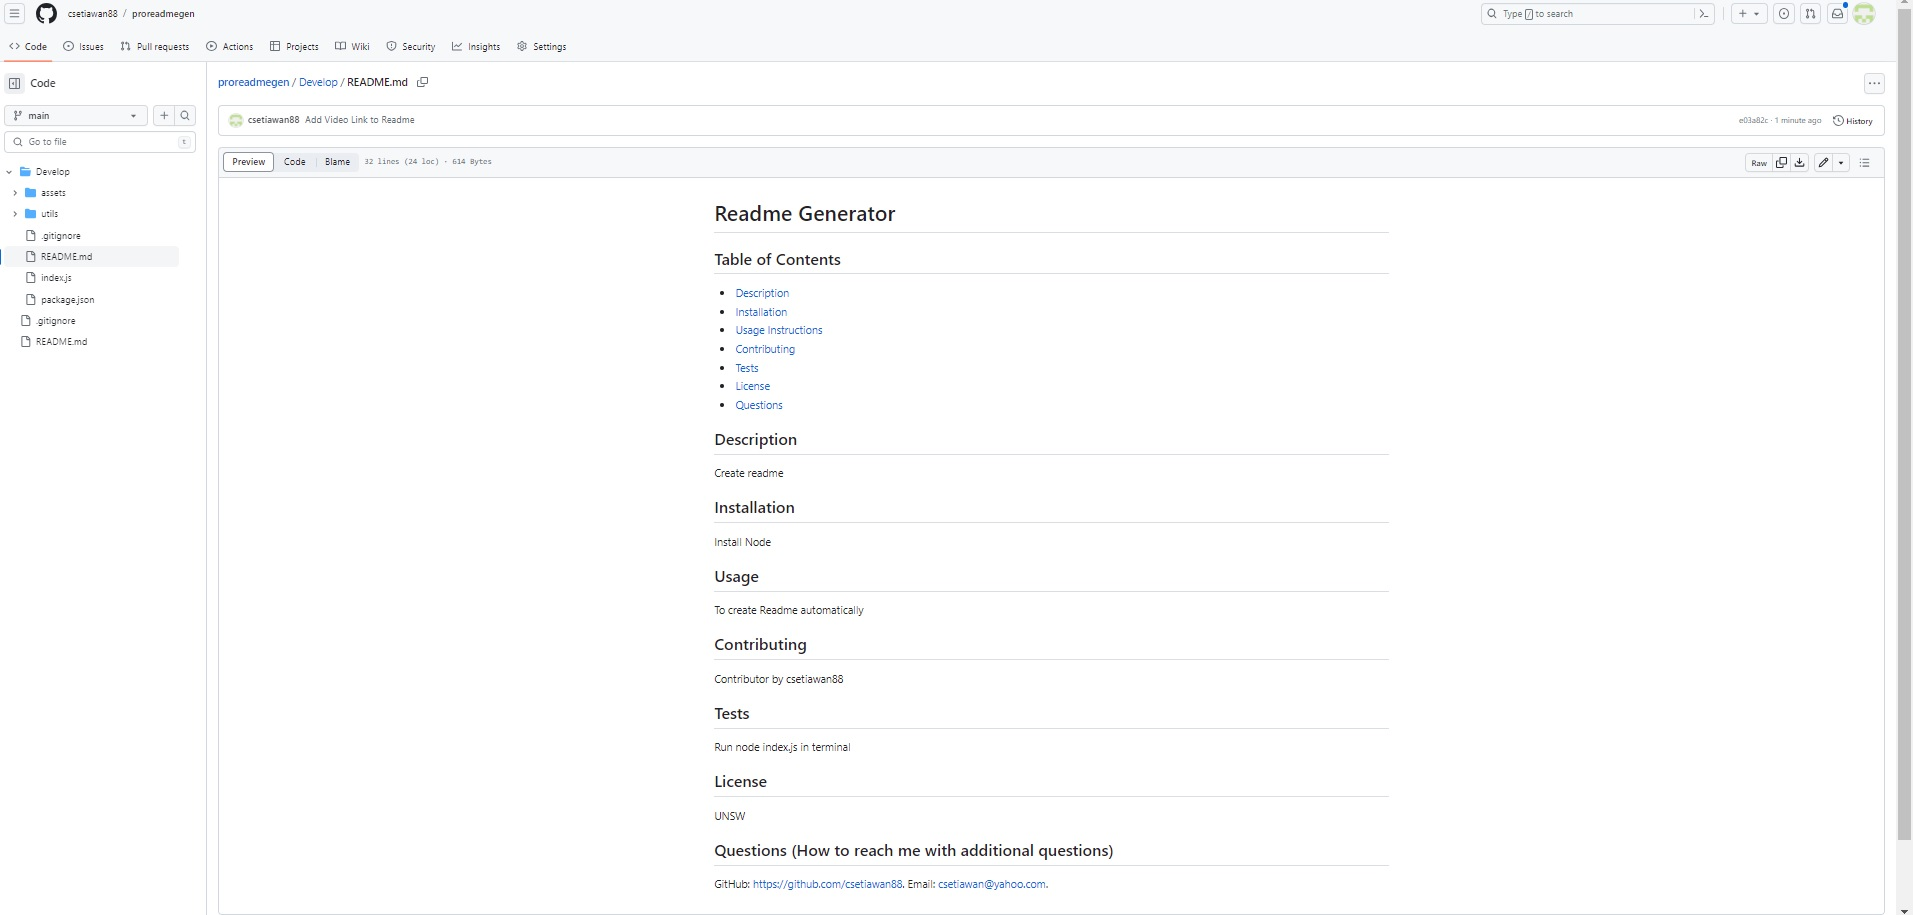
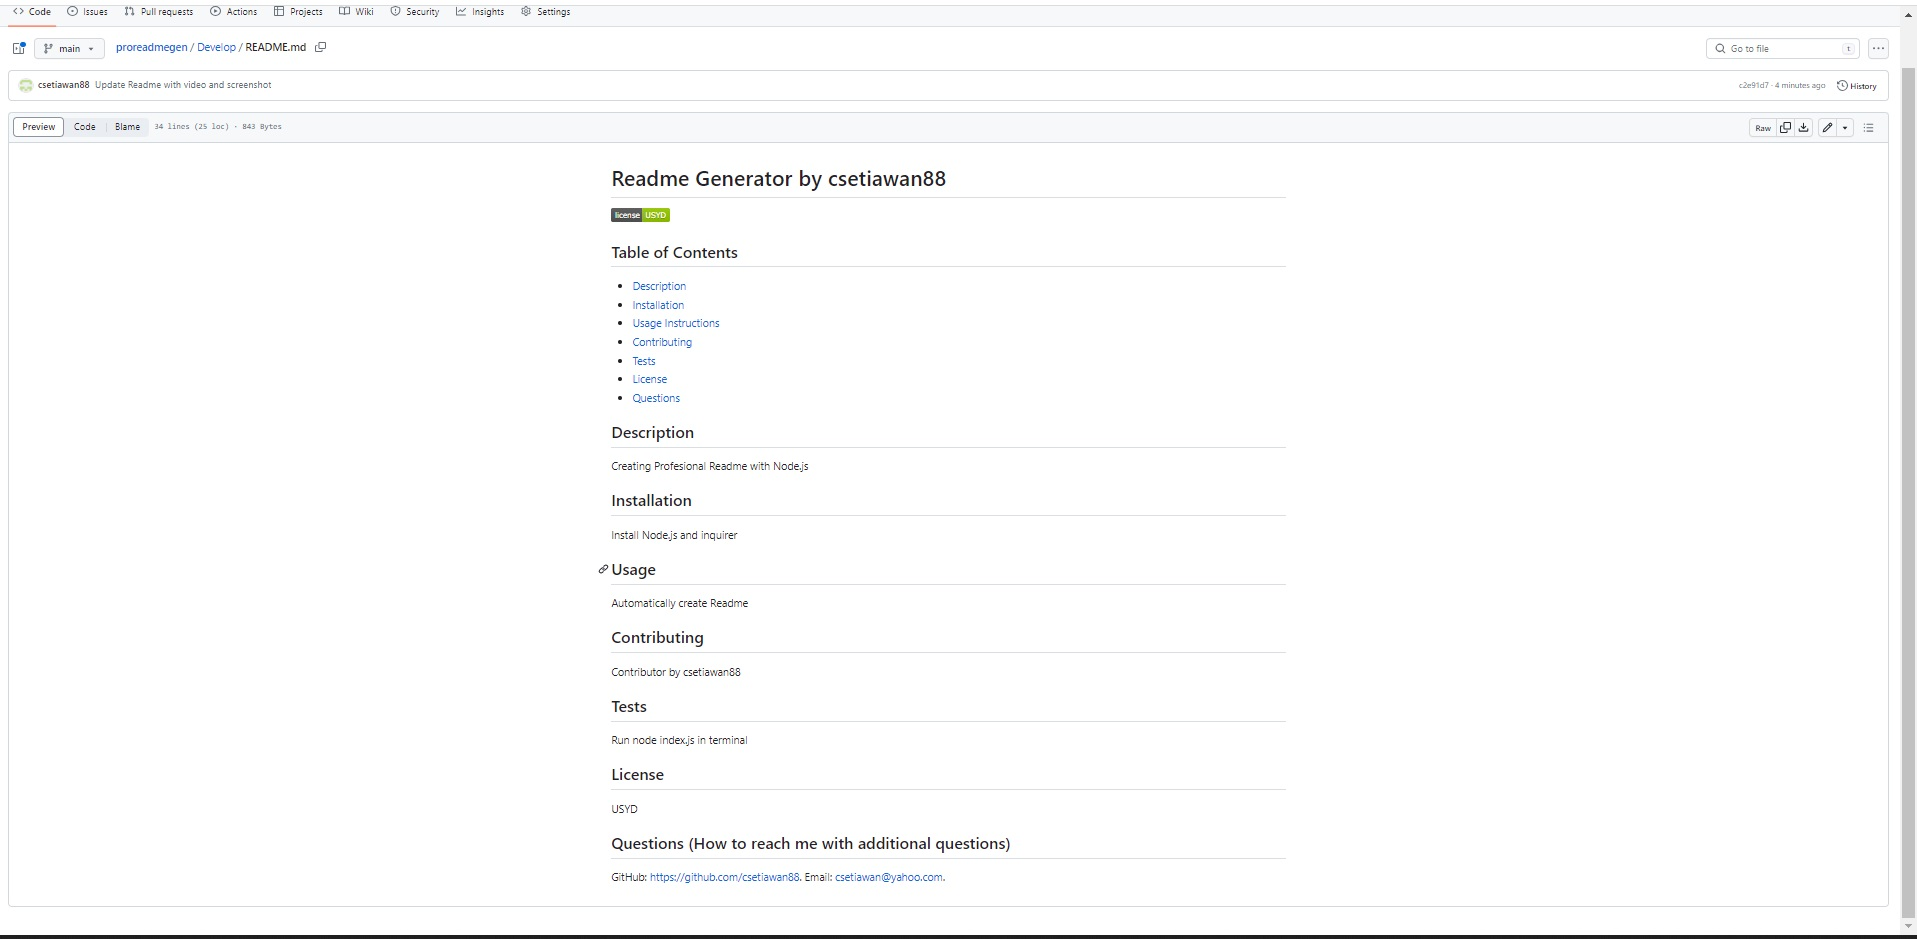
Update Readme with video TOC and screenshot on GitHub

diff --git a/README.md b/README.md
@@ -44,7 +44,7 @@ Video created with Screencastify.
 
 Video Link demonstration: https://drive.google.com/file/d/1Byh17YQ6pgvpeanMHNKNM1XKXPR42Chy/view
 
-Video link to show the functioning Table of Contents:
+Video link to show the functioning Table of Contents: https://drive.google.com/file/d/1GVRIwB7bkD46OqoelvbQA-3QFyX-xgy4/view
 
 ## Screenshot
 
